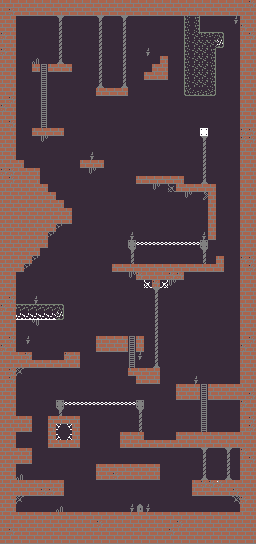
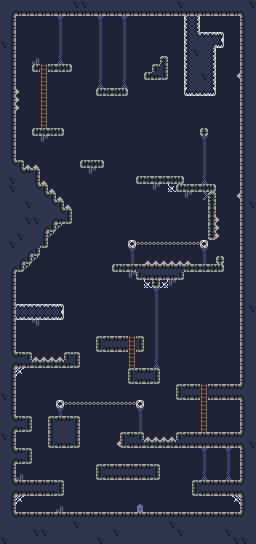
Updated pixel art for level 2

diff --git a/src/entities/torch.py b/src/entities/torch.py
@@ -1,0 +1,36 @@
+"""
+Animated torch entity
+"""
+
+import pygame
+
+from src.animator import Animator
+from src.camera import Camera
+from src.entities.entity import Entity, EntityType
+import src.tileset as Tileset
+from src.tileset import TILE_SIZE, TileType
+
+class Torch(Entity):
+    def __init__(self, x: int, y: int):
+        super().__init__(x, y, EntityType.TORCH)
+        self.frames = Animator([
+            TileType.TORCH_1.value,
+            TileType.TORCH_2.value,
+            TileType.TORCH_3.value,
+            TileType.TORCH_4.value,
+            TileType.TORCH_5.value,
+            TileType.TORCH_6.value
+        ], speed=8)
+
+    @property
+    def rect(self):
+        return pygame.Rect(self.x, self.y, TILE_SIZE, TILE_SIZE)
+    
+    def draw(self, surface: pygame.Surface, camera: Camera):
+        self.frames.update()
+        frame = self.frames.get_frame()
+        camera_pos = camera.get_pos()
+        surface.blit(frame, (self.rect.x - camera_pos[0], self.rect.y - camera_pos[1]))
+        
+    def update(self, player_rect: pygame.Rect):
+        pass

diff --git a/src/level/level.py b/src/level/level.py
@@ -9,6 +9,7 @@ Most of the gameplay takes place here.
 from enum import Enum, unique, auto
 import pygame
 
+from src.entities.torch import Torch
 import src.tileset as Tileset
 from src.tileset import TileType
 from src.constants import resource_path, FPS
@@ -510,10 +511,6 @@ class Level:
         camera_pos = self.camera.get_pos()
         self.viewport.blit(self.platform_surface, (-camera_pos[0], -camera_pos[1]))
 
-        # Guardian drawn AFTER viewport.fill() so it's not wiped — fixes the guardian bug too
-        self.guardian.update()
-        self.guardian.draw(self.viewport, self.camera)
-
         player_is_dead = self.player.state == PlayerState.DEAD
 
         # When decoy is active, enemies chase the guardian instead of the player
@@ -525,7 +522,9 @@ class Level:
         decoy_active = self.guardian.state == GuardianState.DECOY
         new_entities = []
         for entity in self.entities:
-            if isinstance(entity, Boss):
+            if isinstance(entity, Spike):
+                continue
+            elif isinstance(entity, Boss):
                 if not player_is_dead:
                     result = entity.update(self.player.rect)
                     # Seal the arena the moment the boss wakes up
@@ -570,6 +569,10 @@ class Level:
                         new_entities.append(result)
                 entity.draw(self.viewport, self.camera)
         self.entities.extend(new_entities)
+
+        # Guardian drawn AFTER viewport.fill() so it's not wiped - fixes the guardian bug too
+        self.guardian.update()
+        self.guardian.draw(self.viewport, self.camera)
 
         if not player_is_dead:
             # Check projectile collisions

diff --git a/src/tileset.py b/src/tileset.py
@@ -82,6 +82,12 @@ class TileType(Enum):
     PLAYER_SLIDING = 98
     PLAYER_DEAD = 99
     GUARDIAN_IDLE = 100
+    TORCH_1 = 101
+    TORCH_2 = 102
+    TORCH_3 = 103
+    TORCH_4 = 104
+    TORCH_5 = 105
+    TORCH_6 = 106
 
 def init():
     global tileset

diff --git a/src/entities/entity.py b/src/entities/entity.py
@@ -18,6 +18,7 @@ class EntityType(Enum):
     BOSS = auto()
     BOSS_PROJECTILE = auto()
     CHECKPOINT = auto()
+    TORCH = auto()
     UNKNOWN = auto()
 
     @staticmethod
@@ -41,6 +42,8 @@ class EntityType(Enum):
                 return EntityType.BOSS
             case "checkpoint":
                 return EntityType.CHECKPOINT
+            case "torch":
+                return EntityType.TORCH
             case _:
                 return EntityType.UNKNOWN
             
@@ -72,6 +75,8 @@ class EntityType(Enum):
                 return TileType.MAGIC
             case EntityType.CHECKPOINT:
                 return TileType.JEWEL
+            case EntityType.TORCH:
+                return TileType.TORCH_1
             case _:
                 return TileType.BOX
 

diff --git a/src/tiledmap.py b/src/tiledmap.py
@@ -3,6 +3,7 @@ import pygame
 import pytmx
 from enum import Enum, auto
 
+from src.entities.torch import Torch
 import src.tileset as Tileset
 from src.camera import Camera
 from src.tile import Tile, TileType
@@ -255,6 +256,8 @@ class TiledMap:
                     entities.append(Boss(entity.x, entity.y))
                 case EntityType.CHECKPOINT:
                     entities.append(Checkpoint(entity.x, entity.y))
+                case EntityType.TORCH:
+                    entities.append(Torch(entity.x, entity.y))
                 case _:
                     entities.append(Entity(entity.x, entity.y, EntityType.from_name(entity.type)))
 

diff --git a/src/scenes/game.py b/src/scenes/game.py
@@ -18,7 +18,7 @@ class Game(Scene):
             Level(self.surface, 3)
         ]
 
-        self.current_level = 0
+        self.current_level = 1
         self.level = self.levels[self.current_level]
 
     def next_level(self):